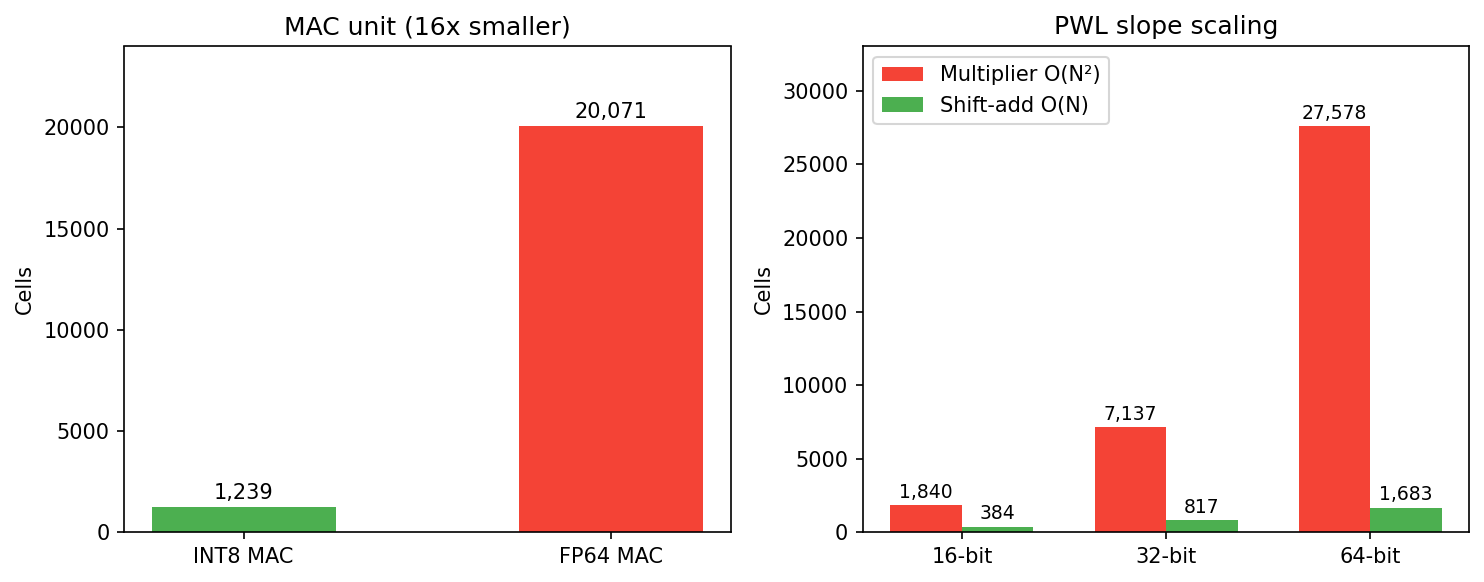
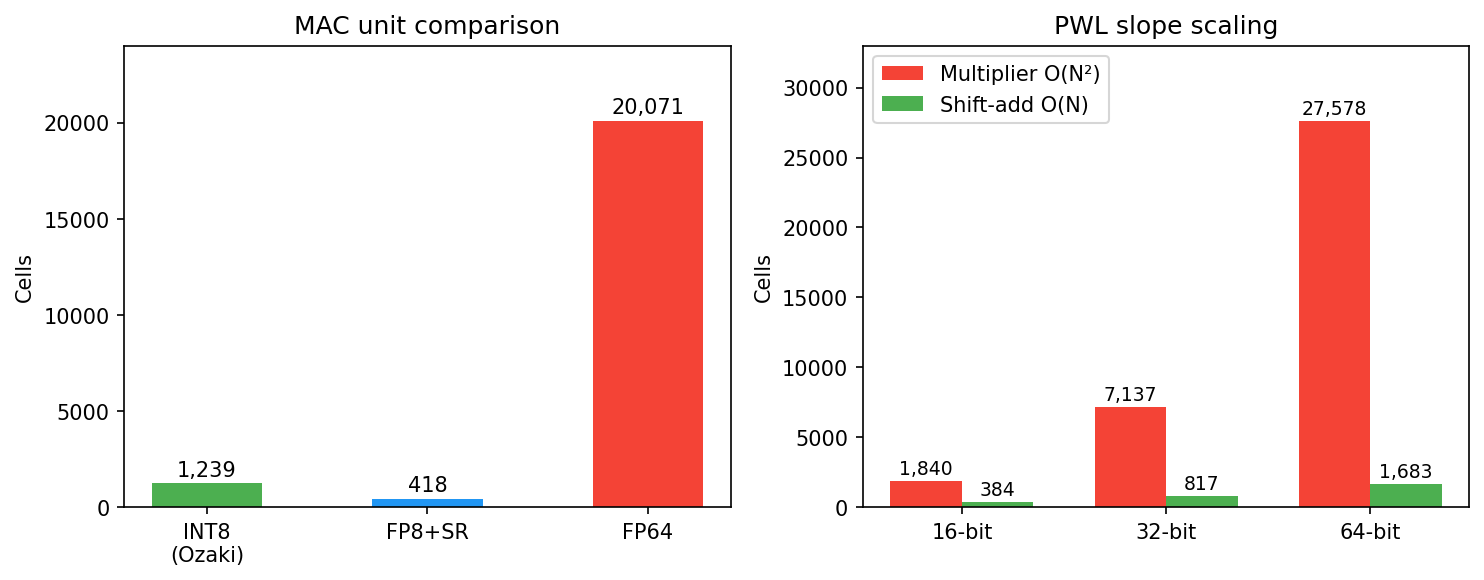
synthesised lazy sr mac

diff --git a/hw/sim/tb_mac_sr.py b/hw/sim/tb_mac_sr.py
@@ -1,0 +1,91 @@
+import struct
+import cocotb
+from cocotb.clock import Clock
+from cocotb.triggers import RisingEdge, ClockCycles
+
+
+def float_to_fp8_e5m2(f):
+    """Convert float to FP8 E5M2 (IEEE-like, no denorms)."""
+    bits = struct.pack(">f", f)
+    val = struct.unpack(">I", bits)[0]
+    sign = (val >> 31) & 1
+    exp = ((val >> 23) & 0xFF) - 127 + 15  # rebias to 5-bit
+    exp = max(0, min(31, exp))
+    mant = (val >> 21) & 0x3  # top 2 mantissa bits
+    return (sign << 7) | (exp << 2) | mant
+
+
+def fp8_e5m2_to_float(bits):
+    """Convert FP8 E5M2 back to float."""
+    sign = (bits >> 7) & 1
+    exp = (bits >> 2) & 0x1F
+    mant = bits & 0x3
+    if exp == 0:
+        return 0.0
+    val = (1.0 + mant / 4.0) * (2.0 ** (exp - 15))
+    return -val if sign else val
+
+
+def fp12_e6m5_to_float(bits):
+    """Convert FP12 E6M5 to float."""
+    sign = (bits >> 11) & 1
+    exp = (bits >> 5) & 0x3F
+    mant = bits & 0x1F
+    if exp == 0 and mant == 0:
+        return 0.0
+    val = (1.0 + mant / 32.0) * (2.0 ** (exp - 31))
+    return -val if sign else val
+
+
+async def reset(dut):
+    dut.rst_ni.value = 0
+    dut.clear_i.value = 0
+    dut.valid_i.value = 0
+    dut.a_i.value = 0
+    dut.b_i.value = 0
+    dut.rand_i.value = 0
+    await ClockCycles(dut.clk_i, 2)
+    dut.rst_ni.value = 1
+    await RisingEdge(dut.clk_i)
+
+
+@cocotb.test()
+async def test_basic_mac(dut):
+    """Accumulate 1.5 * 2.0 = 3.0, check result is reasonable."""
+    cocotb.start_soon(Clock(dut.clk_i, 10, unit="ns").start())
+    await reset(dut)
+
+    dut.a_i.value = float_to_fp8_e5m2(1.5)
+    dut.b_i.value = float_to_fp8_e5m2(2.0)
+    dut.rand_i.value = 0
+    dut.valid_i.value = 1
+    await RisingEdge(dut.clk_i)
+    dut.valid_i.value = 0
+    await RisingEdge(dut.clk_i)
+
+    result = fp12_e6m5_to_float(dut.acc_o.value.to_unsigned())
+    err = abs(result - 3.0)
+    dut._log.info(f"1.5 * 2.0: got {result:.4f}, expected 3.0, err={err:.4f}")
+    assert err < 0.5, f"too far off: got {result}"
+
+
+@cocotb.test()
+async def test_clear(dut):
+    """Accumulate, clear, check zero."""
+    cocotb.start_soon(Clock(dut.clk_i, 10, unit="ns").start())
+    await reset(dut)
+
+    dut.a_i.value = float_to_fp8_e5m2(1.0)
+    dut.b_i.value = float_to_fp8_e5m2(1.0)
+    dut.rand_i.value = 0
+    dut.valid_i.value = 1
+    await RisingEdge(dut.clk_i)
+    dut.valid_i.value = 0
+
+    dut.clear_i.value = 1
+    await RisingEdge(dut.clk_i)
+    dut.clear_i.value = 0
+    await RisingEdge(dut.clk_i)
+
+    result = dut.acc_o.value.to_unsigned()
+    assert result == 0, f"expected 0 after clear, got {result}"

diff --git a/hw/synth/plot.py b/hw/synth/plot.py
@@ -3,20 +3,21 @@ import numpy as np
 from pathlib import Path
 
 # yosys cell counts (from `make` in hw/synth/)
-MAC = {"INT8 MAC": 1239, "FP64 MAC": 20071}
+MAC = {"INT8\n(Ozaki)": 1239, "FP8+SR": 418, "FP64": 20071}
 SLOPE_MUL = {16: 1840, 32: 7137, 64: 27578}
 SLOPE_SHIFT = {16: 384, 32: 817, 64: 1683}
 
-GREEN, RED = "#4CAF50", "#F44336"
+GREEN, BLUE, RED = "#4CAF50", "#2196F3", "#F44336"
 
 fig, axes = plt.subplots(1, 2, figsize=(10, 4))
 
 # MAC
 ax = axes[0]
 names, vals = list(MAC.keys()), list(MAC.values())
-ax.bar(names, vals, color=[GREEN, RED], width=0.5)
+colors = [GREEN, BLUE, RED]
+ax.bar(names, vals, color=colors, width=0.5)
 ax.set_ylabel("Cells")
-ax.set_title("MAC unit (16x smaller)")
+ax.set_title("MAC unit comparison")
 for i, v in enumerate(vals):
     ax.text(i, v + 400, f"{v:,}", ha="center", fontsize=10)
 ax.set_ylim(0, 24000)

diff --git a/README.md b/README.md
@@ -37,7 +37,7 @@ The real point: dedicated fixed-point silicon.
 <img src="figures/synth.png" alt="Yosys comparison">
 <figcaption>
 Yosys gate-level cell counts (<code>hw/synth/</code>).
-<b>Left:</b> INT8 vs FP64 MAC.
+<b>Left:</b> MAC unit comparison. FP8 + stochastic rounding (418 cells) is 3x smaller than INT8 Ozaki (1,239) and 48x smaller than FP64 (20,071).
 <b>Right:</b> ML-PLAC shifts vs multiplier, gap widens with width.
 </figcaption>
 </figure>
@@ -81,4 +81,5 @@ Run on Colab with T4 GPU:
 - [ML-PLAC](https://www.mdpi.com/2076-3417/12/20/10616)
 - [DT-PINNs](https://arxiv.org/abs/2205.09332)
 - [Chebyshev spectral methods](https://people.maths.ox.ac.uk/trefethen/spectral.html)
+- [Lazy stochastic rounding FP MAC](https://arxiv.org/abs/2404.14010)
 - [What Every CS Should Know About FP](https://docs.oracle.com/cd/E19957-01/806-3568/ncg_goldberg.html)
